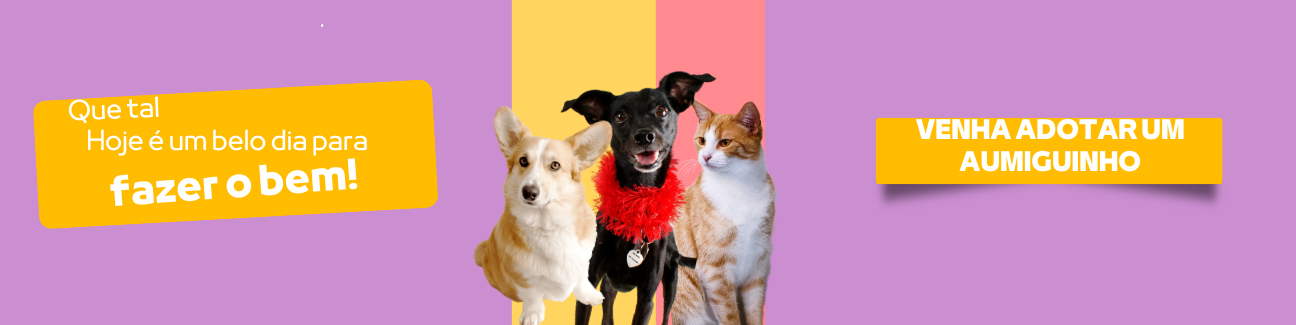
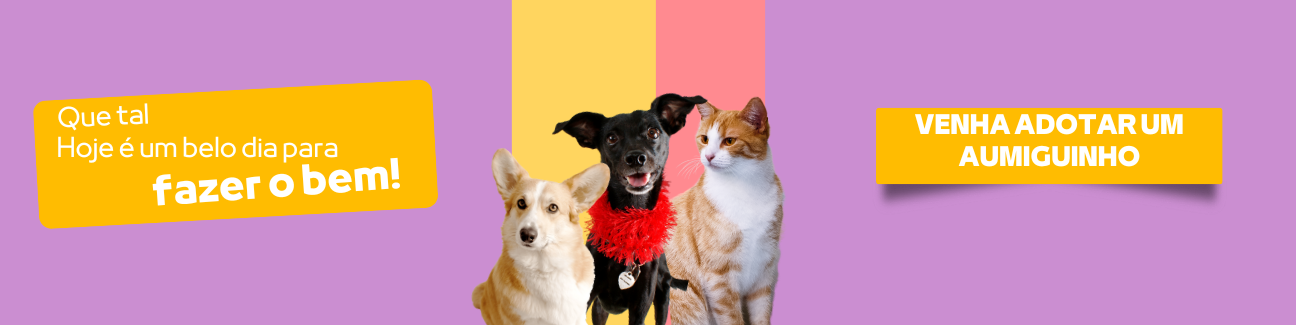
melhorias no Index part 1
Colocado fotos e melhorado carrosel como fotos dos pets

Changed region(s): [[0.3395, 0.2154, 0.6173, 1.0], [0.0309, 0.3077, 0.3086, 0.6462], [0.679, 0.3077, 0.9568, 0.5231]]

diff --git a/templates/index.html b/templates/index.html
@@ -42,7 +42,7 @@
             </div>
         </div>
     </nav>
-    <br><br>
+    <br><br><br><br><br>
 <!-- carrossel -->
 <!-- tava tentando ajustar pra não deixar as imagens esticadas -->
 
@@ -50,10 +50,10 @@
 
 <img src="static/img/Cards/Banner_pet.png" id="Imagem_index">
 
-
+<!--
 <div class="image-slider">
   <div class="image-box">
-      <img src="'sustentabilidadeimg1.png';'sustentabilidadeimg2.png';'sustentabilidadeimg3.png'" alt="Sustentabilidade">
+      <img src="static/img/Animais/MariaDulce_1.jpeg;'static/img/Animais/MariaDulce_1.jpeg';'static/img/Animais/MariaDulce_1.jpeg'" alt="Sustentabilidade">
   </div>
   <div class="image-box">
       <img src="'servicosimg2.png'; 'servicosimg3.png';'servicosimg4.png'" alt="Serviços">
@@ -62,20 +62,52 @@
       <img src="'tecnologiaimg1.png'; 'tecnologiaimg2.png'; 'tecnologiaimg3.png'" alt="Tecnologia">
   </div>
 </div>
-
+-->
 
 <div class="carousel-fluid p-0">
   <div id="carouselExampleInterval" class="carousel slide" data-bs-ride="carousel" >
     
-    <div class="carousel-inner">
-      <div class="carousel-item active"  class="carrossel-item" class="carousel-item img" data-bs-interval="2000">
-        <img src="static/img/carrossel/car_banner.webp" class="d-block w-100" alt="...">
+    <div class="carousel-inner" class="carousel-inner img" >
+      <div class="carousel-item active"  class="carrossel-item" class="carousel-item img" data-bs-interval="5000">
+          <div class="row g-0">
+            <div class="col-md-4">
+              <img src="static/img/Animais/MariaDulce_1.jpeg" class="img-fluid rounded-start" alt="...">
+            </div>
+            <div class="col-md-8">
+              <div class="card-body">
+                <h5 class="card-title">Dulce Maria</h5>
+                <p class="card-text">This is a wider card with supporting text below as a natural lead-in to additional content. This content is a little bit longer.</p>
+              </div>
+            </div>
+          </div>
+        </div>
+      <div class="carousel-item" class="carousel-item img" data-bs-interval="5000">
+        <div class="row g-0">
+          <div class="col-md-4">
+            <img src="static/img/Animais/jake.jpeg" class="img-fluid rounded-start" alt="...">
+          </div>
+          <div class="col-md-8">
+            <div class="card-body">
+              <h5 class="card-title">Jake</h5>
+              <p class="card-text">This is a wider card with supporting text below as a natural lead-in to additional content. This content is a little bit longer.</p>
+              <p class="card-text"><small class="text-body-secondary">Last updated 3 mins ago</small></p>
+            </div>
+          </div>
+        </div>
       </div>
-      <div class="carousel-item" class="carousel-item img" data-bs-interval="2000">
-        <img src="static/img/carrossel/car_adoteamigo.png" class="d-block w-100" alt="...">
-      </div>
-      <div class="carousel-item" class="carousel-item img" data-bs-interval="2000">
-        <img src="static/img/carrossel/car_cachorro.webp" class="d-block w-100" alt="...">
+      <div class="carousel-item" class="carousel-item img" data-bs-interval="5000">
+        <div class="row g-0">
+          <div class="col-md-4">
+            <img src="static/img/Animais/lya.jpeg" class="img-fluid rounded-start" alt="...">
+          </div>
+          <div class="col-md-8">
+            <div class="card-body">
+              <h5 class="card-title">Lya</h5>
+              <p class="card-text">This is a wider card with supporting text below as a natural lead-in to additional content. This content is a little bit longer.</p>
+              <p class="card-text"><small class="text-body-secondary">Last updated 3 mins ago</small></p>
+            </div>
+          </div>
+        </div>
       </div>
     </div>
 

diff --git a/static/style.css b/static/style.css
@@ -23,6 +23,12 @@
     object-fit: contain;  /* isso aqui serve pra imagem caber certinho no carrossel, sem esticar. precisamos de imagens que sejam do mesmo tamanho */
     border-radius: 10px; /* Opcional, se você quiser bordas arredondadas */
   }
+  .carousel-control-prev-icon,
+  .carousel-control-next-icon {
+    background-color: black; /* Cor preta */
+    background-size: 50%;   /* Ajusta o tamanho do ícone */
+    border-radius: 100%;      /* Torna os ícones circulares (opcional) */
+  }
 
 #Imagem_index {
   width: 100%; /* A imagem ocupa toda a largura do item */
